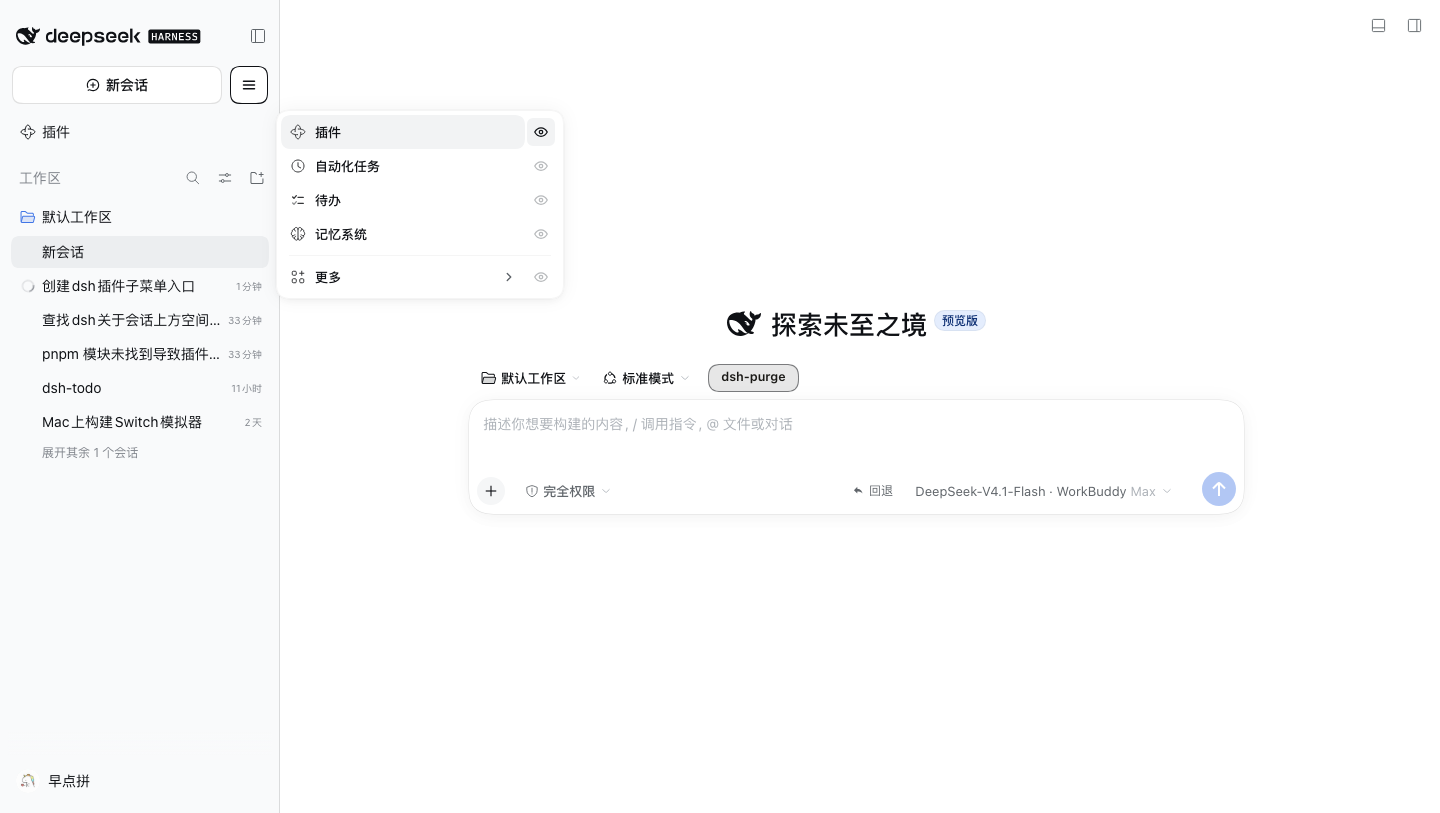
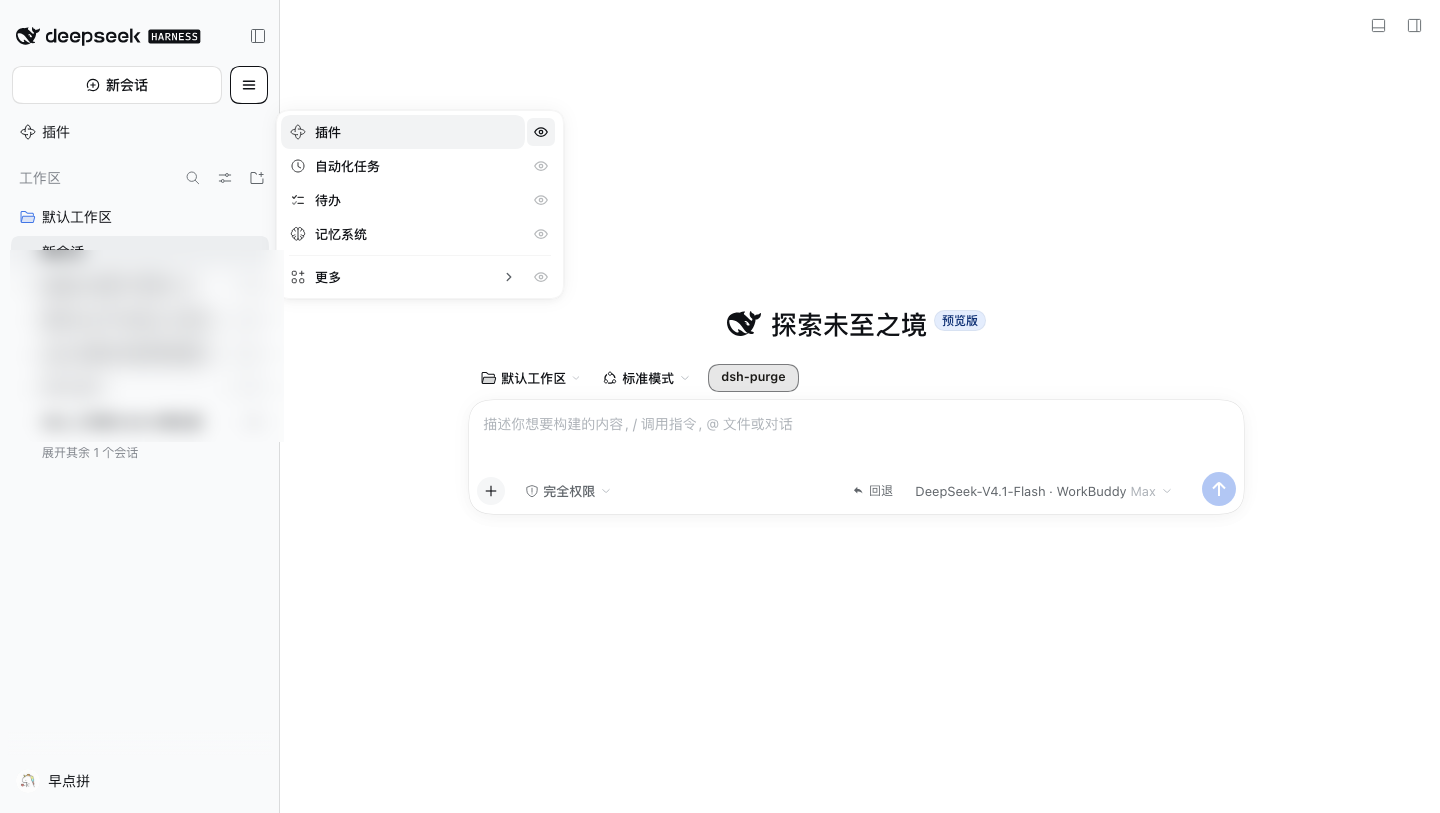
docs: redact session titles in preview and rework README

Changed region(s): [[0.0312, 0.3075, 0.1562, 0.5535]]

diff --git a/README.md b/README.md
@@ -2,6 +2,45 @@
 
 ![侧栏坞](preview.png)
 
-Moves the DSH sidebar's panel list (`插件`, `自动化任务`, plugin-contributed panels, and `更多`) into a single dropdown anchored beside `新会话`.
+把 DeepSeek Harness 侧边栏里的面板列表（`插件`、`自动化任务`、各插件贡献的面板，以及 `更多`）折叠进 `新会话` 右侧的一个下拉菜单，让侧栏回归干净。
 
-The original panel list is folded by default. The dropdown mirrors every live `sidebar.panellist` registration, preserves each plugin's own icon markup, and includes the More-menu actions (`浏览更多插件`, `创建你的插件`). Each menu row has an eye button on the right: click it to pin that panel back into the sidebar; click again to fold it away. Pinned choices are stored in `localStorage` under `dsh-sidebar-dock:pinned`. New Session remains a split button: its existing button content is cloned and forwarded to the original action.
+## 特性
+
+- **紧凑收纳**：默认收起面板列表，只保留「新会话 + 菜单按钮」一行。
+- **实时镜像**：菜单内容来自侧边栏所有激活面板的注册，新插件装好后自动出现在菜单里，并保留每个插件自己的图标。
+- **按需固定**：每个菜单项右侧的眼睛按钮可以把对应面板固定回侧边栏，再点一次收起；也支持把 `更多` 固定回去。
+- **持久记忆**：固定的选择保存在 `localStorage`（键 `dsh-sidebar-dock:pinned`），刷新或重启后保持不变。
+- **功能不缺失**：`更多` 子菜单保留原有的「浏览更多插件」「创建你的插件」；「新会话」按钮保持原有快捷键与样式。
+- **折叠兼容**：侧栏折叠成窄栏时自动切换为纯图标入口。
+
+## 使用
+
+点击「新会话」右侧的 `≡` 按钮打开面板菜单：
+
+- 点击某项 → 打开对应面板；
+- 点击某项右侧的眼睛 → 固定/收起该项到侧边栏；
+- 进入「更多」→ 浏览更多插件 / 创建你的插件。
+
+## 安装
+
+```bash
+cd profiles/web            # 或你的 profile 目录
+dsh plugin install /path/to/dsh-sidebar-dock
+```
+
+或在插件市场中搜索 `dsh-sidebar-dock`。
+
+## 开发
+
+项目是单文件浏览器 Bundle（`client/index.js`），无构建步骤：
+
+```bash
+# 修改 client/index.js 后无需编译
+dsh plugin install /path/to/dsh-sidebar-dock   # 或走 GUI 插件市场
+```
+
+开发时修改 `client/index.js` 会由 HMR 自动热更新，刷新页面即可生效。
+
+## License
+
+[MIT](LICENSE)
